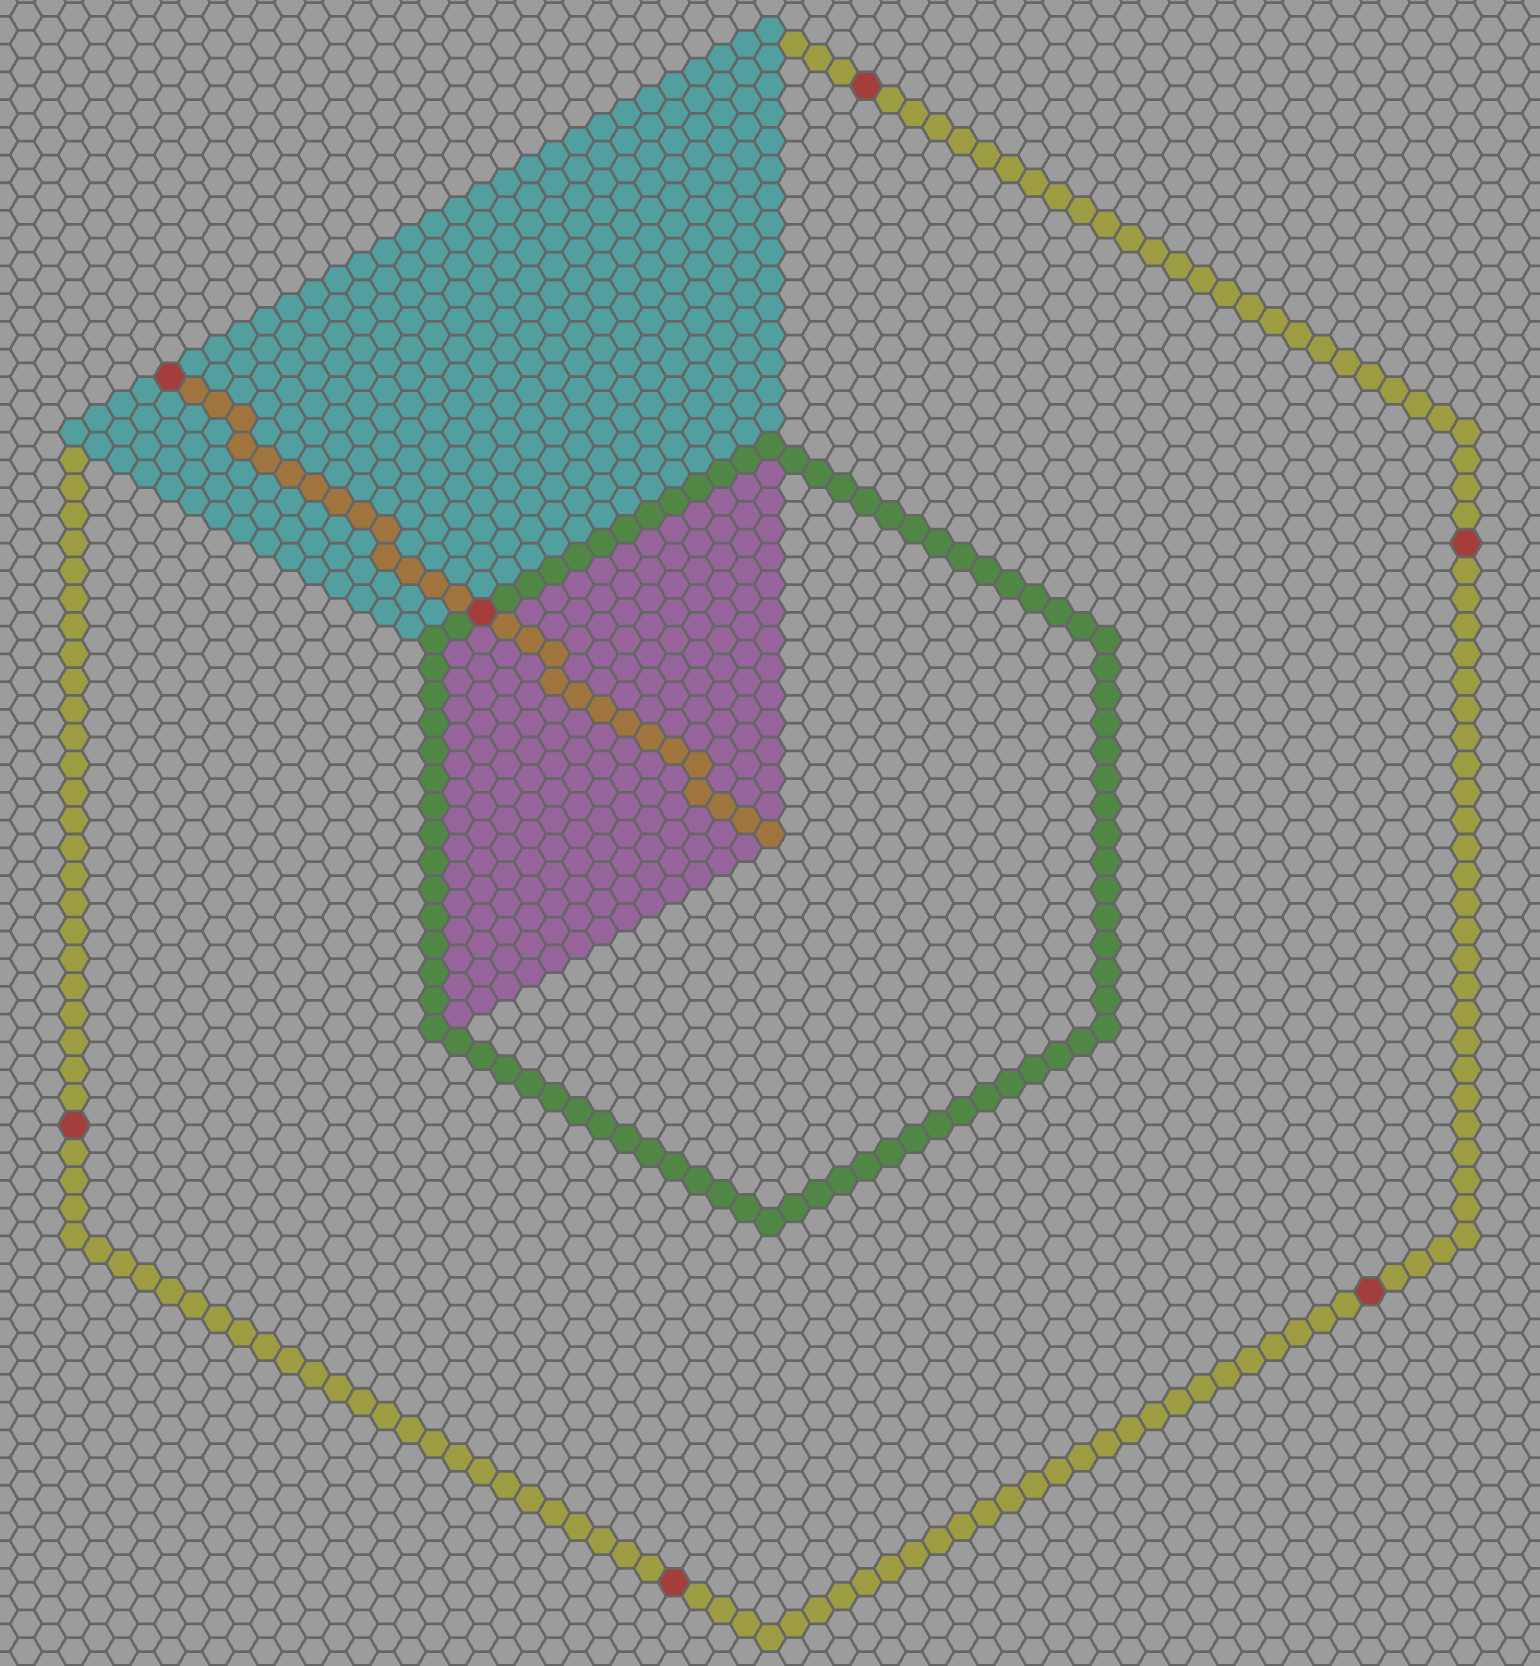
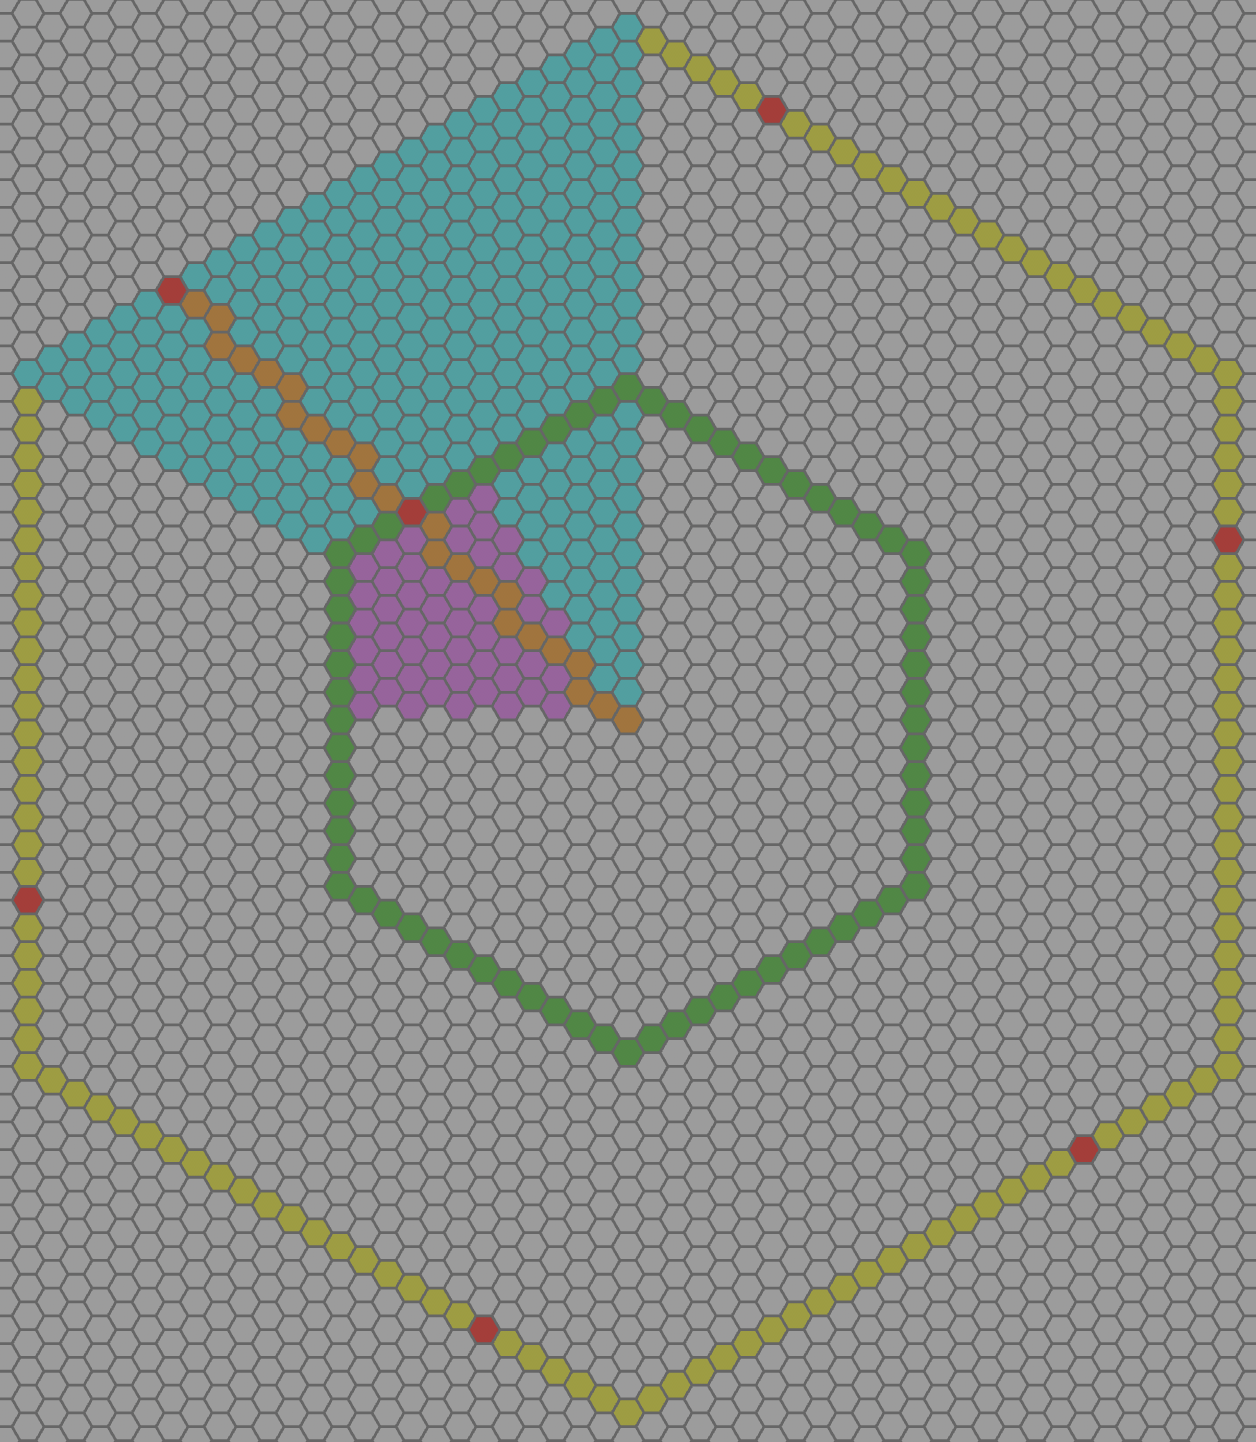
Corner wedges (#35)
> Completes #32 for #29 

# Work done

- Adds "corner wedges":
  - [x] `Hex::corner_wedge`
  - [x] `Hex::corner_wedge_to`
- Updates the example

diff --git a/examples/hex_grid.rs b/examples/hex_grid.rs
@@ -35,7 +35,7 @@ struct HighlightedHexes {
     pub halfway: Hex,
     pub ring: Vec<Hex>,
     pub wedge: Vec<Hex>,
-    pub dual_wedge: Vec<Hex>,
+    pub dir_wedge: Vec<Hex>,
     pub line: Vec<Hex>,
     pub half_ring: Vec<Hex>,
     pub rotated: Vec<Hex>,
@@ -48,7 +48,7 @@ struct Map {
     selected_material: Handle<StandardMaterial>,
     ring_material: Handle<StandardMaterial>,
     wedge_material: Handle<StandardMaterial>,
-    dual_wedge_material: Handle<StandardMaterial>,
+    dir_wedge_material: Handle<StandardMaterial>,
     line_material: Handle<StandardMaterial>,
     half_ring_material: Handle<StandardMaterial>,
     default_material: Handle<StandardMaterial>,
@@ -77,7 +77,7 @@ fn setup_grid(
     let selected_material = materials.add(Color::RED.into());
     let ring_material = materials.add(Color::YELLOW.into());
     let wedge_material = materials.add(Color::CYAN.into());
-    let dual_wedge_material = materials.add(Color::VIOLET.into());
+    let dir_wedge_material = materials.add(Color::VIOLET.into());
     let line_material = materials.add(Color::ORANGE.into());
     let half_ring_material = materials.add(Color::LIME_GREEN.into());
     let default_material = materials.add(Color::WHITE.into());
@@ -108,7 +108,7 @@ fn setup_grid(
         line_material,
         half_ring_material,
         wedge_material,
-        dual_wedge_material,
+        dir_wedge_material,
     });
 }
 
@@ -133,7 +133,7 @@ fn handle_input(
                 &highlighted_hexes.ring,
                 &highlighted_hexes.line,
                 &highlighted_hexes.wedge,
-                &highlighted_hexes.dual_wedge,
+                &highlighted_hexes.dir_wedge,
                 &highlighted_hexes.half_ring,
                 &highlighted_hexes.rotated,
             ] {
@@ -160,16 +160,11 @@ fn handle_input(
             // Draw rotations
             highlighted_hexes.rotated = (1..6).map(|i| hex.rotate_right(i)).collect();
             // Draw an dual wedge
-            let dir = Hex::ZERO.direction_to(hex);
-            let [a, b] = [dir.diagonal_left(), dir.diagonal_right()];
-            highlighted_hexes.dual_wedge = Hex::ZERO.wedge(0..hex.ulength() / 2, a).collect();
-            highlighted_hexes
-                .dual_wedge
-                .extend(Hex::ZERO.wedge(0..hex.ulength() / 2, b));
+            highlighted_hexes.dir_wedge = Hex::ZERO.corner_wedge_to(hex / 2).collect();
             for (vec, mat) in [
                 (&highlighted_hexes.ring, &map.ring_material),
                 (&highlighted_hexes.wedge, &map.wedge_material),
-                (&highlighted_hexes.dual_wedge, &map.dual_wedge_material),
+                (&highlighted_hexes.dir_wedge, &map.dir_wedge_material),
                 (&highlighted_hexes.line, &map.line_material),
                 (&highlighted_hexes.half_ring, &map.half_ring_material),
                 (&highlighted_hexes.rotated, &map.selected_material),

diff --git a/src/hex/rings.rs b/src/hex/rings.rs
@@ -231,6 +231,29 @@ impl Hex {
         self.custom_wedge_to(rhs, false)
     }
 
+    /// Retrieves all successive [`Hex`] half ring edges around `self` in a given `range` and
+    /// `direction`.
+    ///
+    /// See also [`Self::wedge_dir_to`] and [`Self::wedge`]
+    pub fn corner_wedge(
+        self,
+        range: impl Iterator<Item = u32> + Clone,
+        direction: Direction,
+    ) -> impl Iterator<Item = Self> {
+        let left = self.wedge(range.clone(), direction.diagonal_left());
+        let right = self.wedge(range, direction.diagonal_right());
+        left.chain(right)
+            .filter(move |h| self.direction_to(*h) == direction)
+    }
+
+    /// Retrieves all successive [`Hex`] half ring edges from `self` to `rhs`
+    ///
+    /// See also [`Self::wedge_dir`] and [`Self::wedge_to`]
+    pub fn corner_wedge_to(self, rhs: Self) -> impl Iterator<Item = Self> {
+        let range = self.unsigned_distance_to(rhs);
+        self.corner_wedge(0..=range, self.direction_to(rhs))
+    }
+
     #[allow(clippy::cast_possible_truncation)]
     #[must_use]
     /// Retrieves all successive [`Hex`] ring edges around `self` in a given `RANGE` and `direction`

diff --git a/CHANGELOG.md b/CHANGELOG.md
@@ -31,6 +31,8 @@
   * `Hex::wedge_to`
   * `Hex::custom_wedge`
   * `Hex::custom_wedge_to`
+  * `Hex::corner_wedge`
+  * `Hex::corner_wedge_to`
 * (**BREAKING**) `Hex::custom_spiral_range` now takes a `Iterator<Item = u32>` as range and returns an iterator
 * (**BREAKING**) `Hex::spiral_range` now takes a `Iterator<Item = u32>` as range and returns an iterator
 
